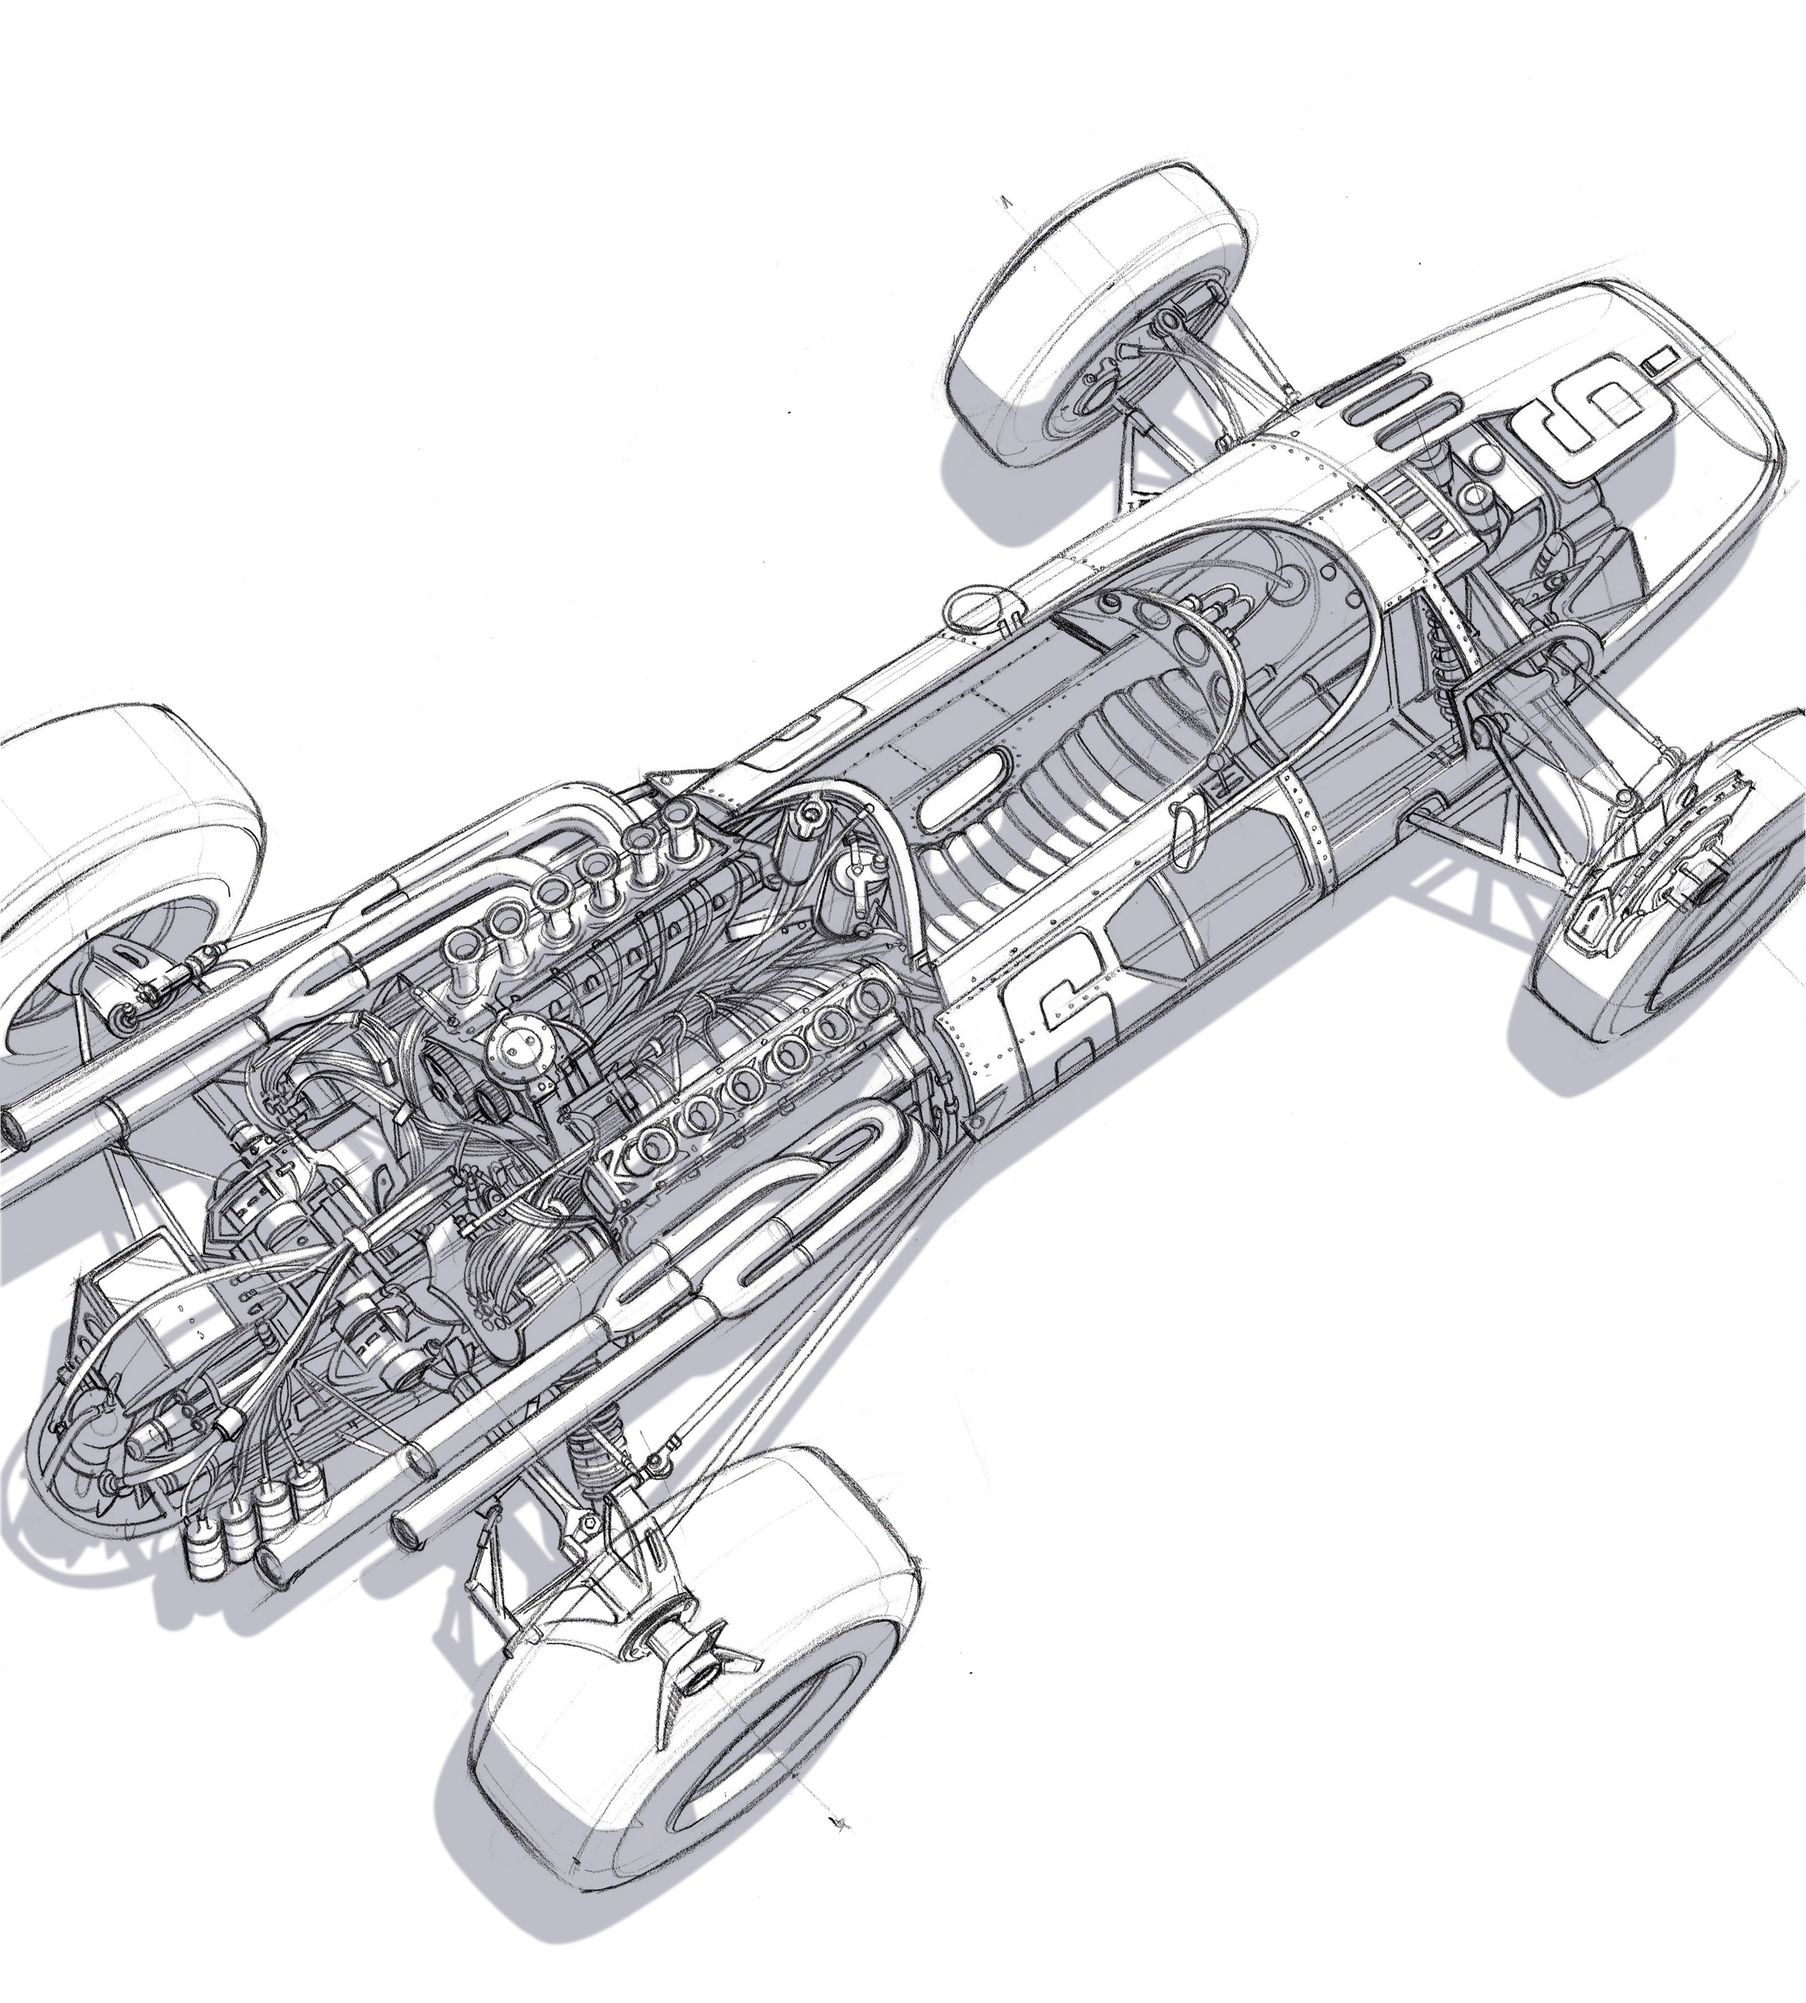
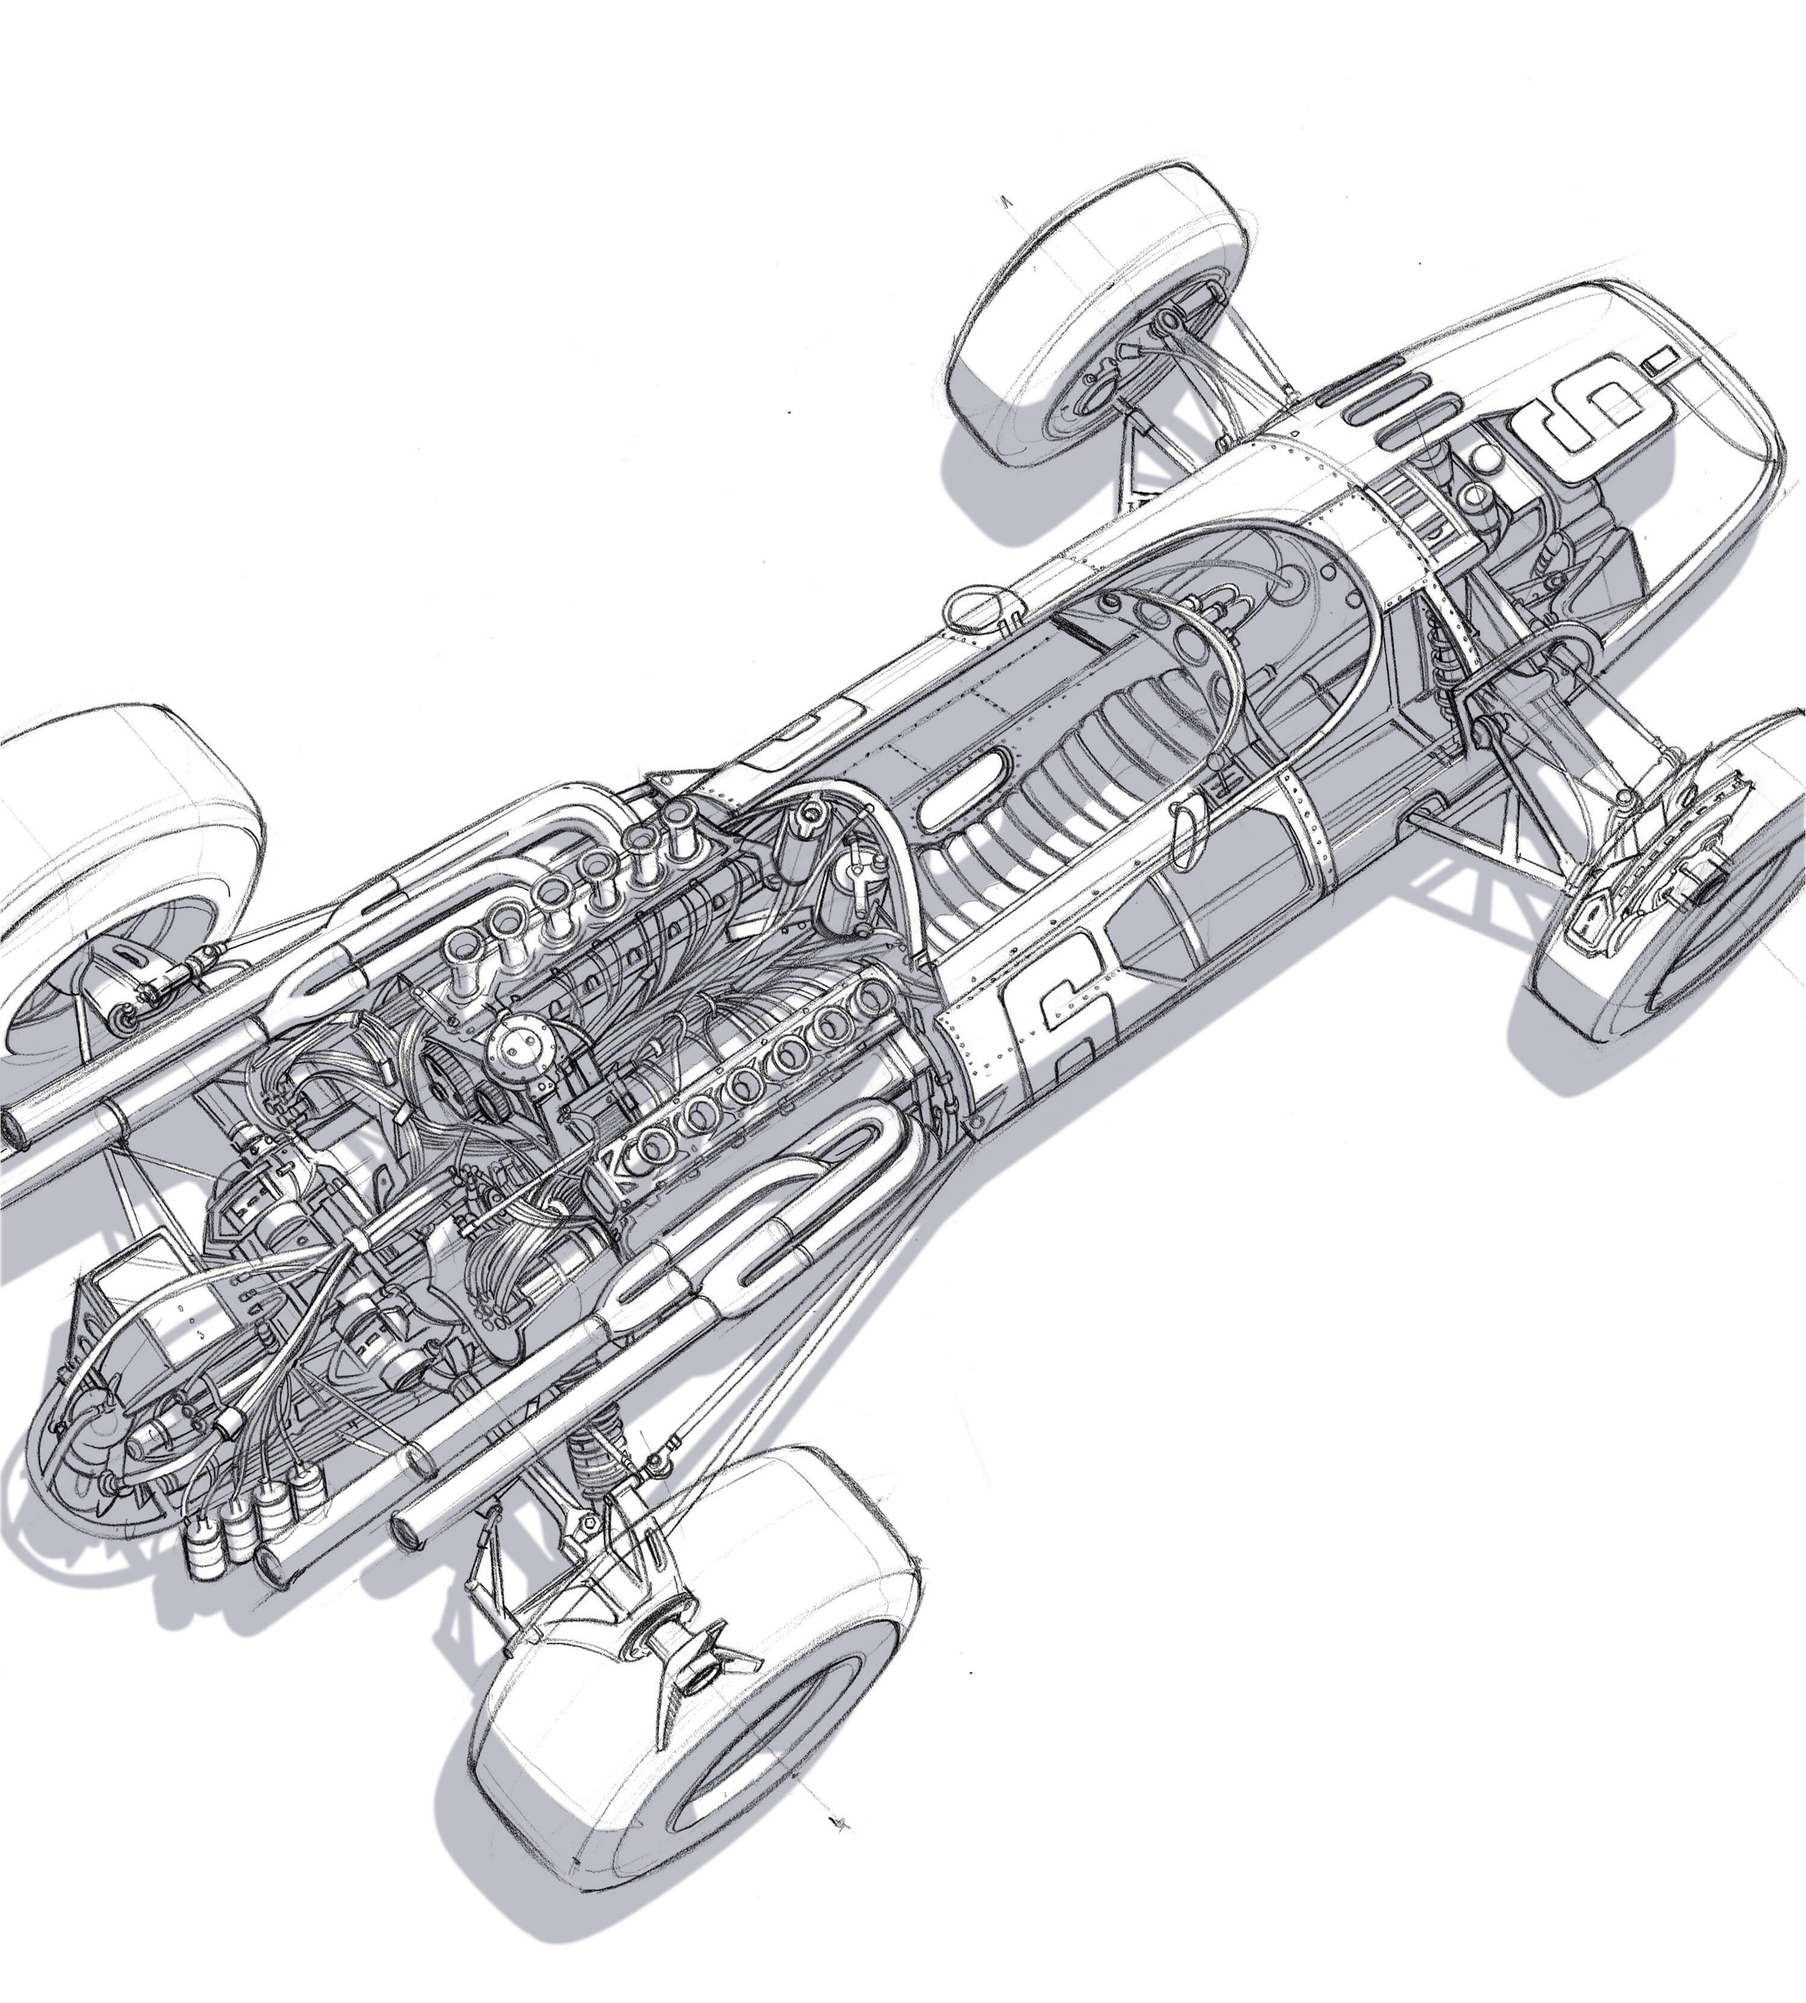
Compressed Login background image and resized

diff --git a/src/page/Login.tsx b/src/page/Login.tsx
@@ -39,7 +39,7 @@ const Login: React.FC = () => {
   return (
     <div className="content-container">
       <div className="form-container">
-        <img src={formBackground} alt="An old Formula 1 car." className="form-background"/>
+        <img src={formBackground} alt="An old Formula 1 car." className="form-background" style={{ width: "140%", left: -90 }}/>
         <div className="form-title" style={{ marginBottom: 200 }}>
           <h2>Login</h2>
         </div>
